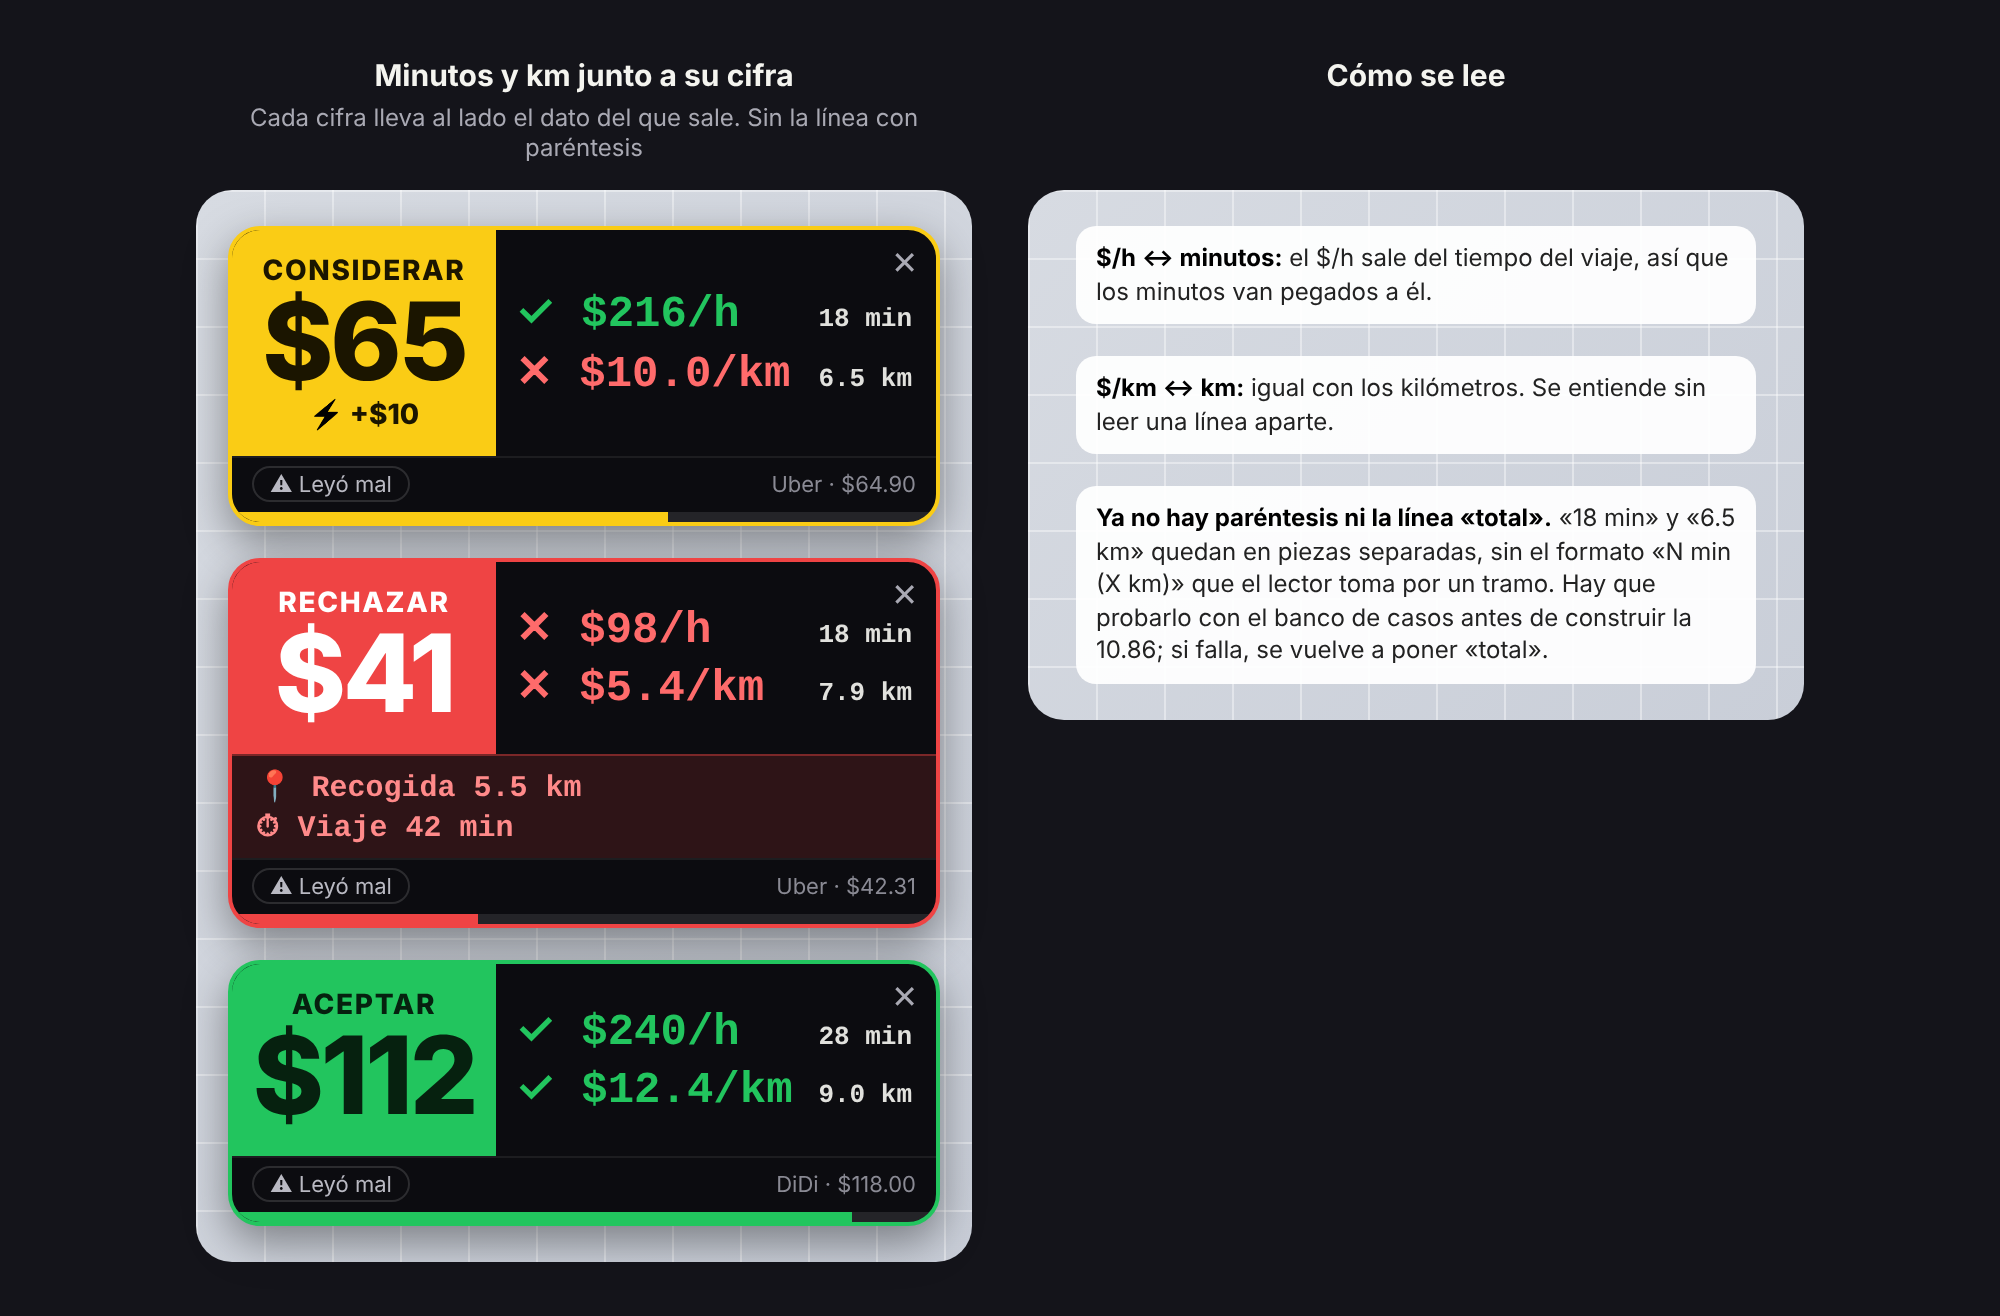
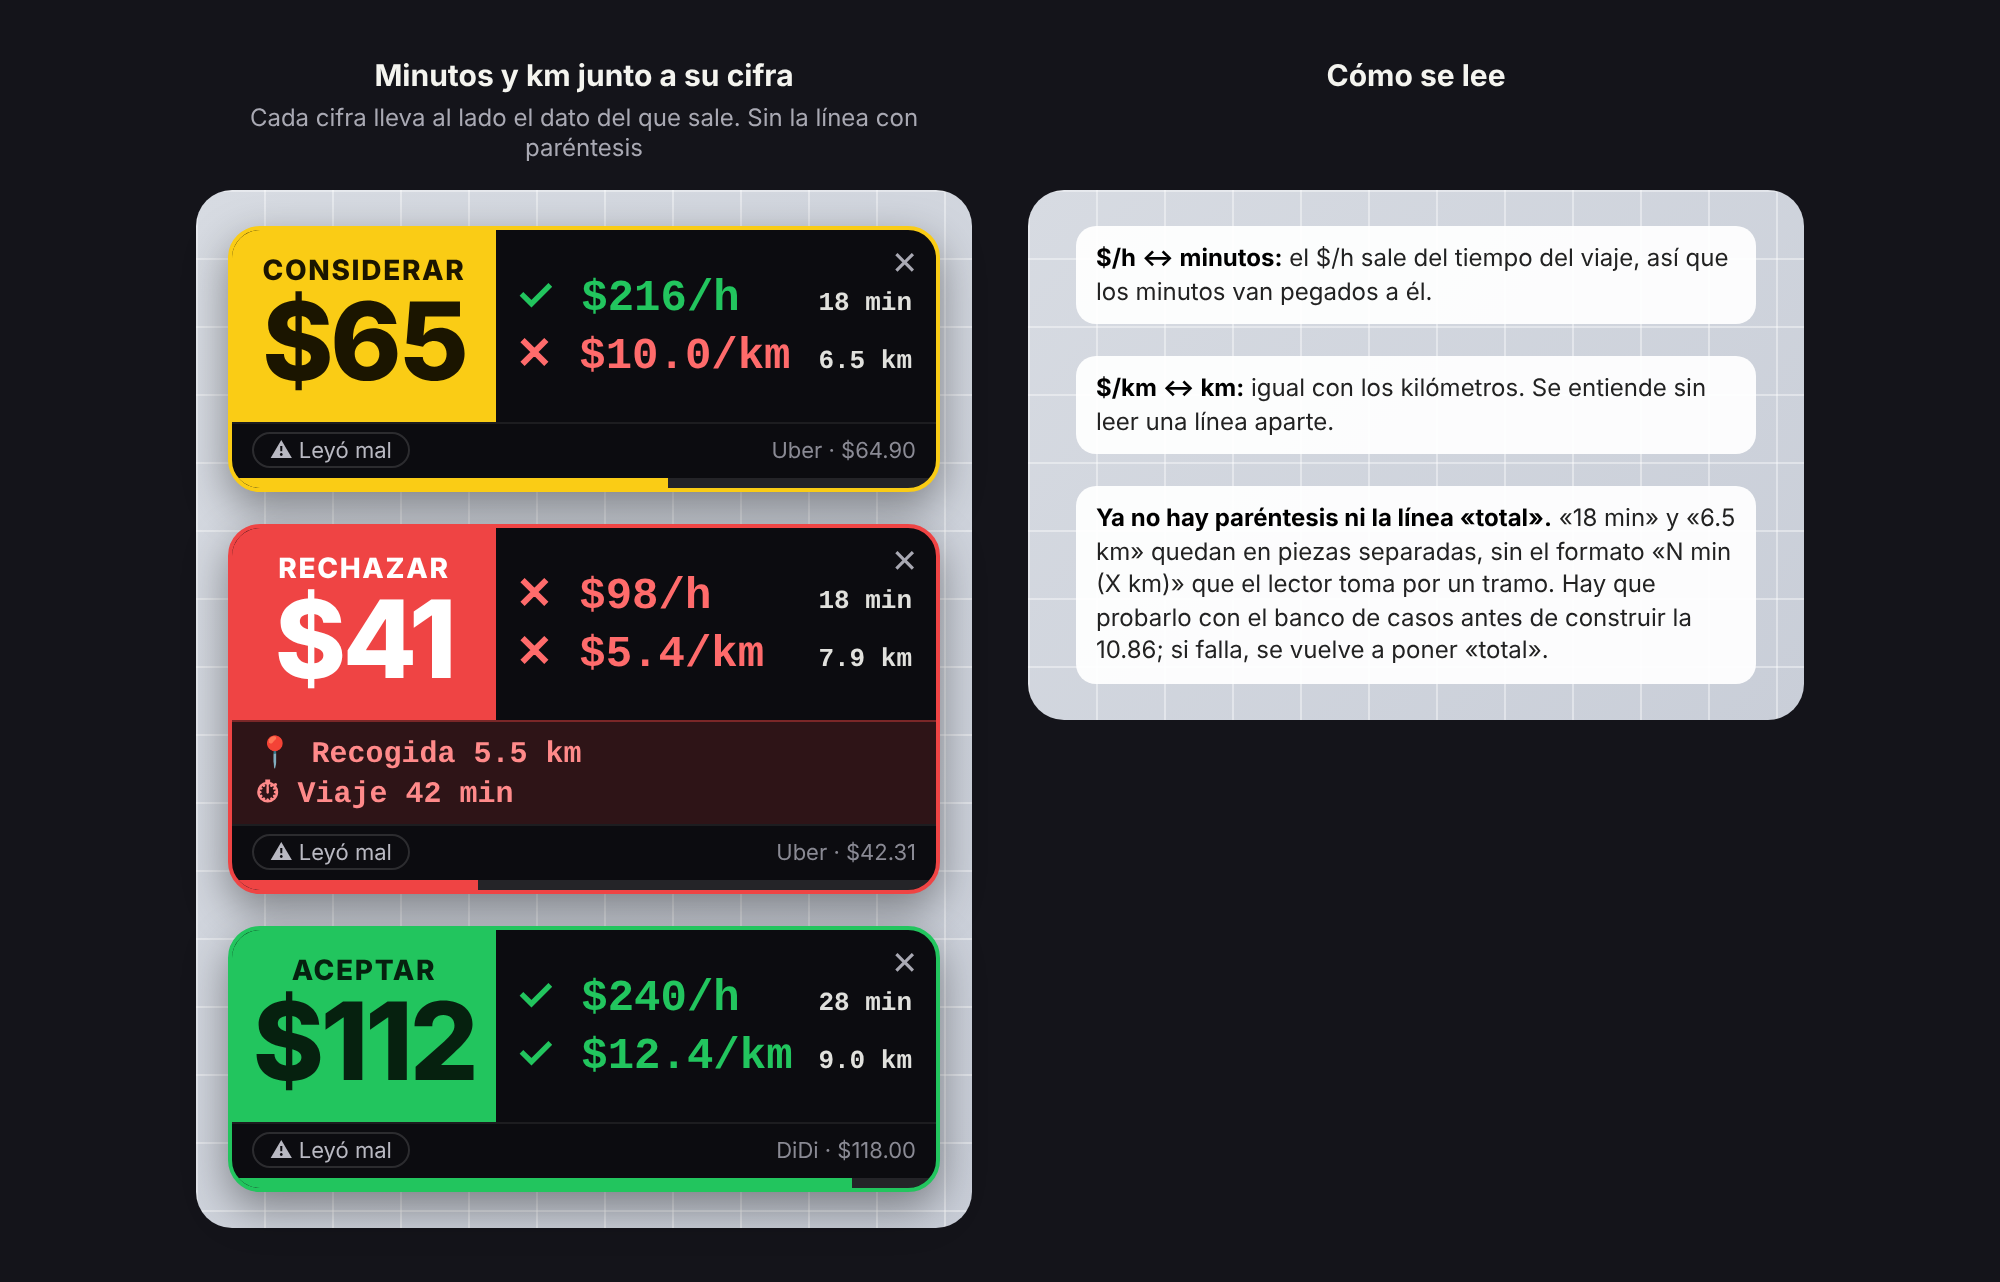
docs: pop-up D sin el rayo ni el +$10
Claude-Session: https://claude.ai/code/session_01P2CDbbiqgFz6ZtGYzzfkDi

diff --git a/docs/propuestas/popup-v6.html b/docs/propuestas/popup-v6.html
@@ -27,7 +27,7 @@ body{background:#14141a;color:var(--hue);font:14px "DM Sans",system-ui,sans-seri
 .pill .m{font:800 28px "Bricolage Grotesque",system-ui}.pill .h{font:800 16px ui-monospace,monospace}.pill .barra{position:absolute;left:0;right:0;bottom:0;height:4px}
 .nota{background:#ffffffee;color:#222;border-radius:10px;padding:8px 10px;font-size:12px;line-height:1.38;width:340px}.nota b{color:#000}
 .nota ol{padding-left:18px;margin-top:3px}
-</style></head><body><div class="col" style="width:388px"><h3>Minutos y km junto a su cifra</h3><p class="s">Cada cifra lleva al lado el dato del que sale. Sin la línea con paréntesis</p><div class="mapa" style="min-height:0"><div class="pop a"><span class="x">✕</span><div class="cuerpo"><div class="bloque"><small>CONSIDERAR</small><b>$65</b><em><span style="filter:grayscale(1) brightness(0)">⚡</span> +$10</em></div>
+</style></head><body><div class="col" style="width:388px"><h3>Minutos y km junto a su cifra</h3><p class="s">Cada cifra lleva al lado el dato del que sale. Sin la línea con paréntesis</p><div class="mapa" style="min-height:0"><div class="pop a"><span class="x">✕</span><div class="cuerpo"><div class="bloque"><small>CONSIDERAR</small><b>$65</b></div>
     <div class="der"><div class="f"><span class="m ok">✓ $216/h</span><u>18 min</u></div><div class="f"><span class="m no">✕ $10.0/km</span><u>6.5 km</u></div></div></div>
     <div class="meta"><span class="leyo">⚠ Leyó mal</span><span>Uber · $64.90</span></div><div class="barra"><i style="width:62%"></i></div></div><div class="pop r"><span class="x">✕</span><div class="cuerpo"><div class="bloque"><small>RECHAZAR</small><b>$41</b></div>
     <div class="der"><div class="f"><span class="m no">✕ $98/h</span><u>18 min</u></div><div class="f"><span class="m no">✕ $5.4/km</span><u>7.9 km</u></div></div></div><div class="avisos"><div>📍 Recogida 5.5 km</div><div>⏱ Viaje 42 min</div></div>
